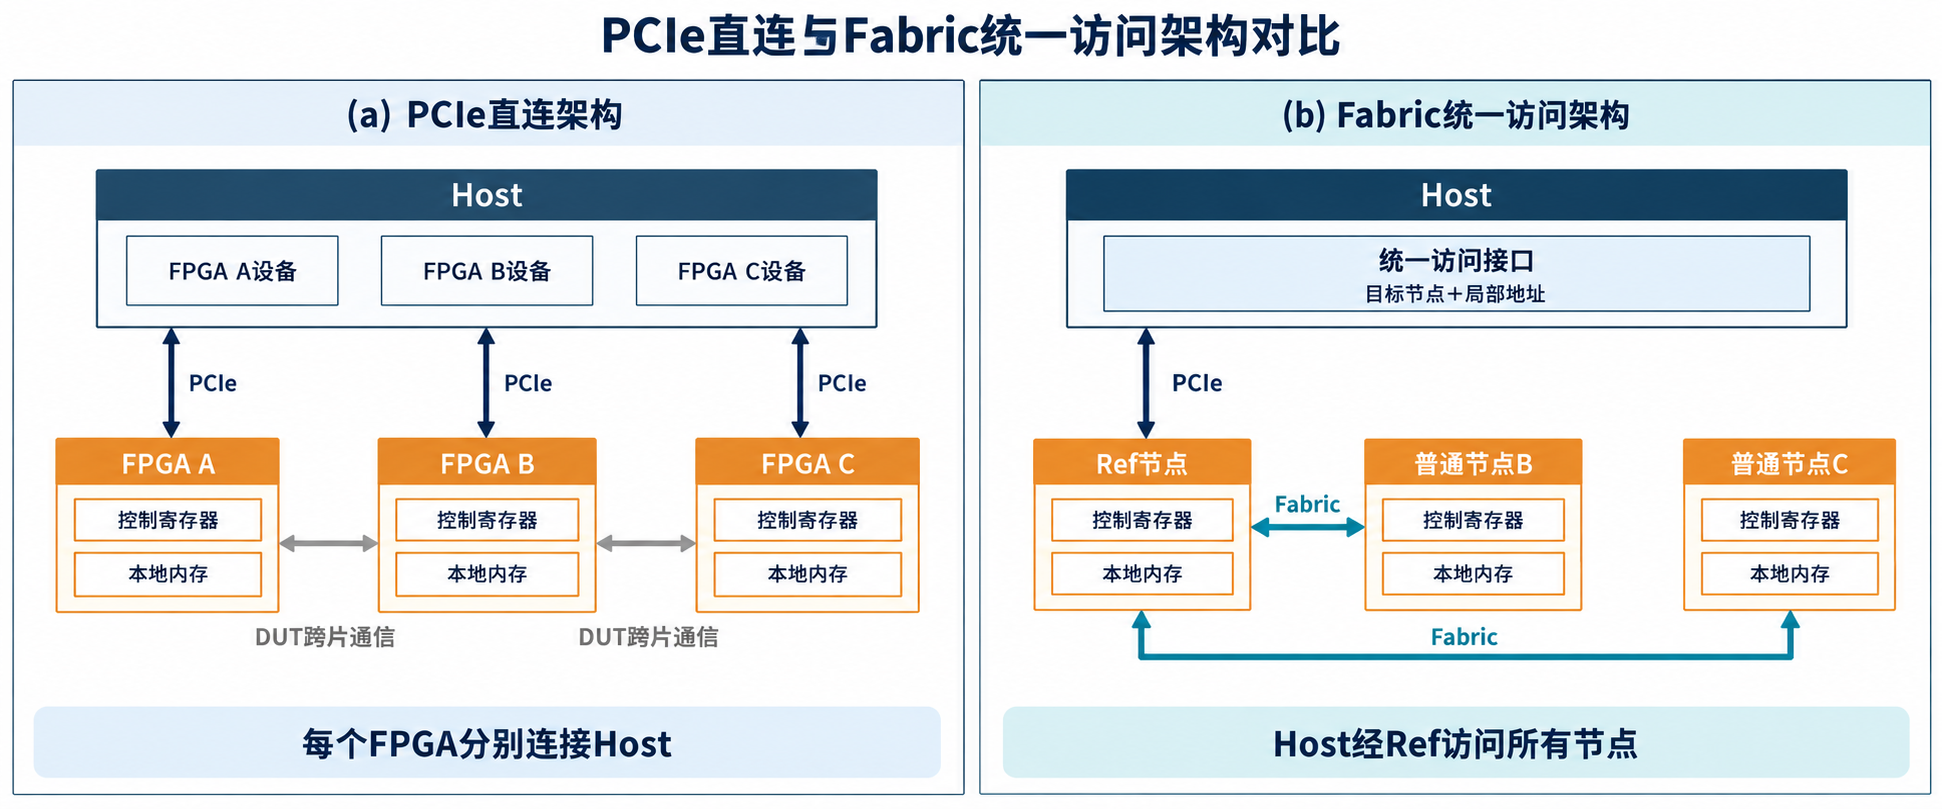
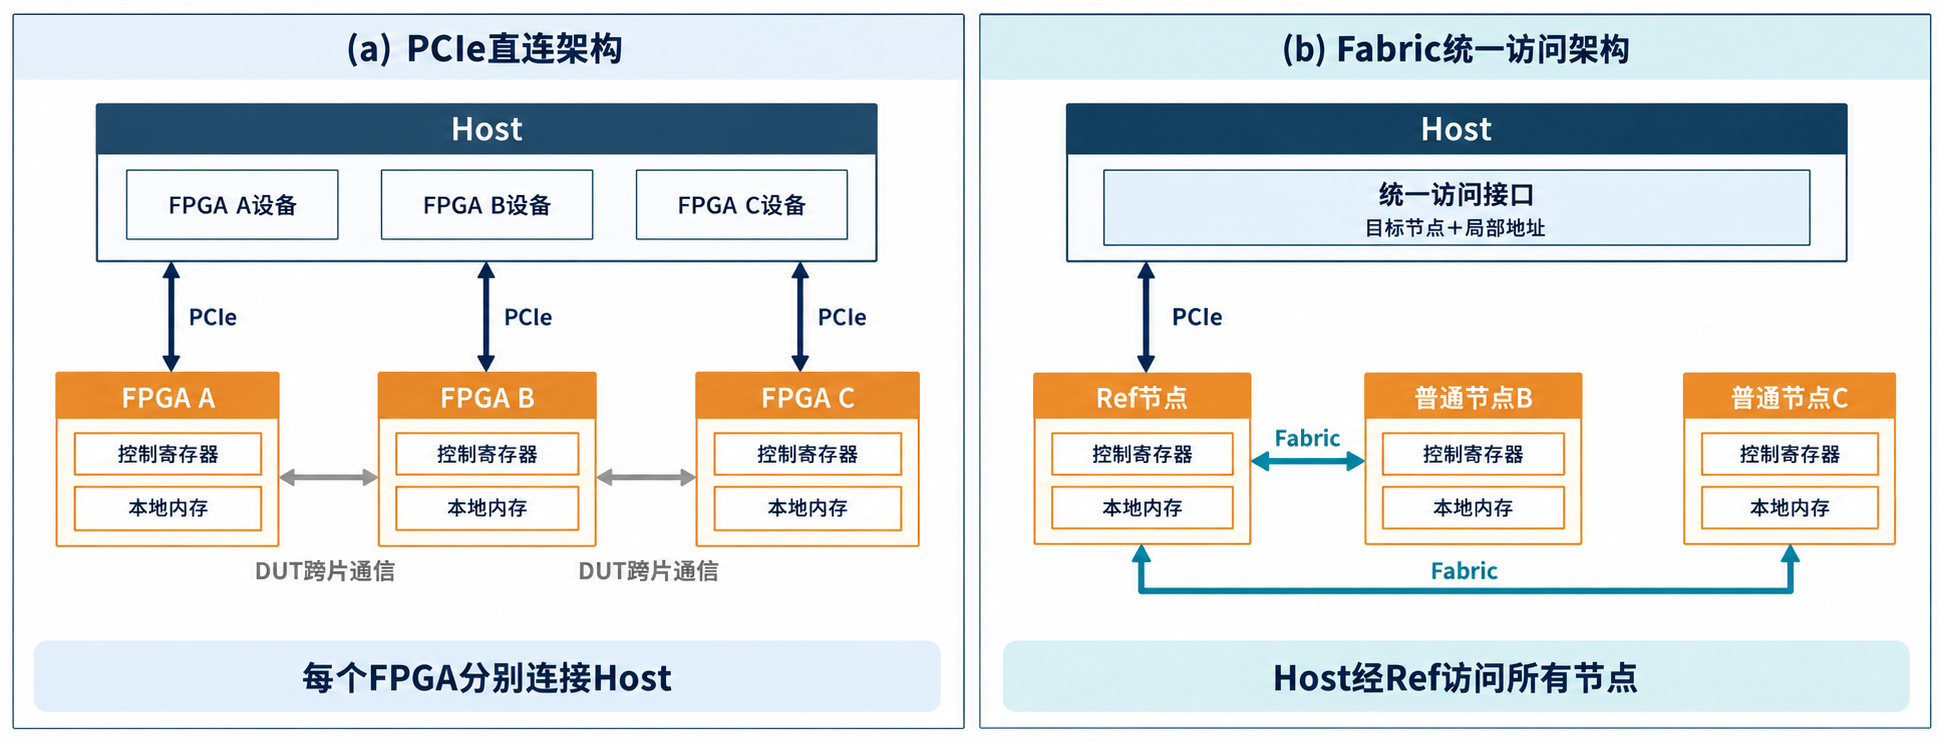
Refine image

diff --git a/scripts/build_checkpoint_replay.py b/scripts/build_checkpoint_replay.py
@@ -43,10 +43,10 @@ class CheckpointDiagram(Diagram):
         self.group(name, [name+".Page", name+".Text"])
 
     def chip_stack(self, name, x, y, size=1.22):
-        """Three complete chip silhouettes, back-to-front, with a clear gap halo.
+        """Three complete chip silhouettes with transparent space around the pins.
 
-        Each chip is a native group. The small opaque background behind the
-        foreground chip prevents rear pins showing through the front silhouette.
+        Each chip is a native group containing only pins, body and label.
+        No backing rectangle masks the other chips in the staggered stack.
         All chips use equal size and equal diagonal offset; no internal partitions.
         """
         groups = []
@@ -54,8 +54,6 @@ class CheckpointDiagram(Diagram):
             px, py = x+depth*.34, y-depth*.34
             part = f"{name}.Chip{depth}"
             start = len(self.commands)
-            self.shape(part+".Halo", px-.14, py-.14, size+.28, size+.28,
-                       fill="EAF4F3", preset="roundRect", adj="adj:val 4500")
             for i in range(5):
                 at = size*(.15+i*.155)
                 for side, a, b, w, h in (
@@ -103,7 +101,7 @@ def build_commands():
             d.shape(name+"."+label, .98, y+dy, 2.13, .36,
                     fill="EAF4F3", text=label, size=18)
         d.shape(name+".Combinational", .98, y+2.57, 2.13, .68,
-                text="Combinational Logic", size=16, fill="EDF0F3")
+                text="Combinational Logic", size=16, fill="C5D7E5", line="8BA7BC:1")
         d.panel(name+".DDR", 3.70, y+.65, 2.23, 2.67, "FFF6E5", AMBER)
         d.shape(name+".DDRTitle", 3.81, y+.75, 2.01, .42,
                 text=f"DDR {i}", size=21, bold="true")
@@ -122,8 +120,6 @@ def build_commands():
             text="Dashed boundary: scanned state", size=16, color=TEAL)
     d.line("Host.CollectBus", 6.88, 3.32, 6.88, 7.42)
     d.line("Host.CollectArrow", 6.88, 5.35, 7.68, 5.35, arrow=True)
-    d.shape("Host.CollectLabel", 6.31, 4.32, 1.14, .78,
-            text="Host\ncollection", size=12, fill="FFFFFF")
 
     # Only cycle 0 is expanded. Header strips of later cycles remain visible.
     d.folder("Host.RootFolder", 7.72, 1.34, .48)
@@ -146,8 +142,6 @@ def build_commands():
         d.file("Checkpoint."+name, x, 4.03, 1.43, 1.78, text, color, font=15)
     d.shape("Checkpoint.SameCycle", 7.90, 5.98, 4.76, .44,
             text="All partitions · same cycle", size=16, bold="true")
-    d.shape("Checkpoint.CycleNote", 7.68, 6.74, 5.32, .38,
-            text="Illustrative checkpoint cycles", size=16, color="607184")
 
     # Auxiliary files are distinct from cycle snapshots. Avoid input-arrow clutter.
     d.file("Aux.Input", 7.85, 7.65, 2.12, 1.53, "Input Traces", "FFF0D9", font=18)

diff --git a/src/midterm/progress/state_replay.tex b/src/midterm/progress/state_replay.tex
@@ -46,7 +46,7 @@ REMUS将同一逻辑周期的分区扫描数据与Memory等信息组织为全局
 
 \begin{figure}[htbp]
     \centering
-    \includegraphics[width=\linewidth]{figure/ckpt-and-replay.png}
+    \includegraphics[width=\linewidth]{figure/presentation-preview/checkpoint-and-replay.png}
     \caption{多FPGA状态快照与恢复重放流程示意图}
     \label{fig:ckpt-and-replay}
 \end{figure}
